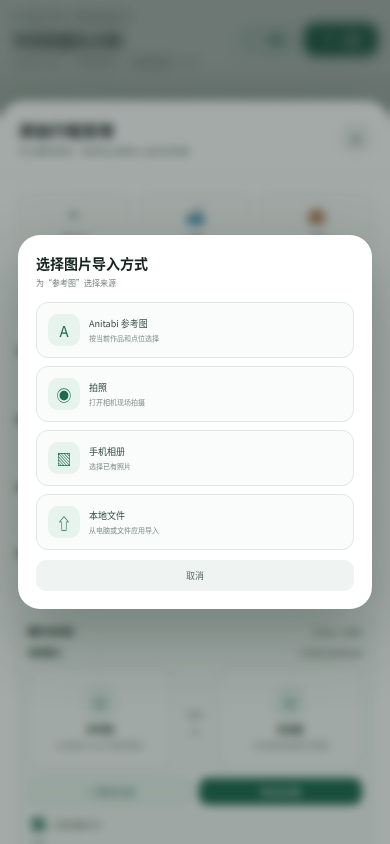
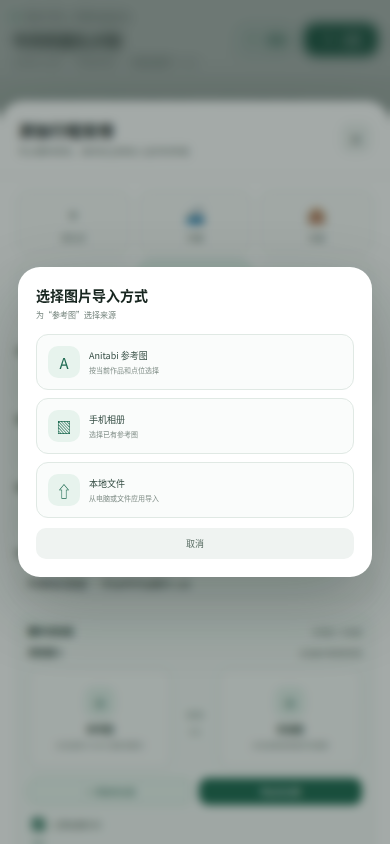
design: restrict photo sources by image role

diff --git a/design/enikki-ui.html b/design/enikki-ui.html
@@ -624,12 +624,7 @@ button,input{font:inherit}button{border:0;cursor:pointer}svg{display:block}
   <div class="photo-source-modal" role="dialog" aria-modal="true" onclick="event.stopPropagation()">
     <h3>选择图片导入方式</h3>
     <p id="photoSourceHint">为“参考图”选择来源</p>
-    <div class="photo-source-grid">
-      <button class="photo-source-choice" data-photo-source="anitabi"><i>A</i><span>Anitabi 参考图<small>按当前作品和点位选择</small></span></button>
-      <button class="photo-source-choice" data-photo-source="camera"><i>◉</i><span>拍照<small>打开相机现场拍摄</small></span></button>
-      <button class="photo-source-choice" data-photo-source="album"><i>▧</i><span>手机相册<small>选择已有照片</small></span></button>
-      <button class="photo-source-choice" data-photo-source="file"><i>⇧</i><span>本地文件<small>从电脑或文件应用导入</small></span></button>
-    </div>
+    <div class="photo-source-grid" id="photoSourceGrid"></div>
     <button class="photo-source-close" onclick="closePhotoSource()">取消</button>
   </div>
 </div>
@@ -742,17 +737,28 @@ document.getElementById('mobileSheetGrid').addEventListener('click', (event) => 
 });
 
 let photoTarget = null;
-const photoSourceLabels = {
-  anitabi: ['Anitabi 参考图', 'A'],
-  camera: ['现场拍照', '◉'],
-  album: ['手机相册', '▧'],
-  file: ['本地文件', '⇧']
+const photoSourceOptions = {
+  reference: [
+    { source: 'anitabi', label: 'Anitabi 参考图', note: '按当前作品和点位选择', icon: 'A' },
+    { source: 'album', label: '手机相册', note: '选择已有参考图', icon: '▧' },
+    { source: 'file', label: '本地文件', note: '从电脑或文件应用导入', icon: '⇧' }
+  ],
+  actual: [
+    { source: 'camera', label: '拍照', note: '打开相机现场拍摄', icon: '◉' },
+    { source: 'album', label: '手机相册', note: '选择已有实拍照片', icon: '▧' },
+    { source: 'file', label: '本地文件', note: '从电脑或文件应用导入', icon: '⇧' }
+  ]
 };
 
 function openPhotoSource(slot) {
   photoTarget = slot;
-  const side = slot.dataset.photoSide === 'actual' ? '实拍图' : '参考图';
-  document.getElementById('photoSourceHint').textContent = `为“${side}”选择来源`;
+  const side = slot.dataset.photoSide === 'actual' ? 'actual' : 'reference';
+  const sideLabel = side === 'actual' ? '实拍图' : '参考图';
+  document.getElementById('photoSourceHint').textContent = `为“${sideLabel}”选择来源`;
+  document.getElementById('photoSourceGrid').innerHTML = photoSourceOptions[side].map((item) => `
+    <button class="photo-source-choice" data-photo-source="${item.source}">
+      <i>${item.icon}</i><span>${item.label}<small>${item.note}</small></span>
+    </button>`).join('');
   document.getElementById('photoSourceBackdrop').classList.add('open');
 }
 
@@ -763,11 +769,12 @@ function closePhotoSource(event) {
 
 function choosePhotoSource(source) {
   if (!photoTarget) return;
-  const [label, icon] = photoSourceLabels[source] || photoSourceLabels.file;
-  const side = photoTarget.dataset.photoSide || 'reference';
+  const side = photoTarget.dataset.photoSide === 'actual' ? 'actual' : 'reference';
+  const option = photoSourceOptions[side].find((item) => item.source === source);
+  if (!option) return;
   photoTarget.classList.add('filled');
   if (side === 'actual') photoTarget.classList.add('actual');
-  photoTarget.innerHTML = `<span class="empty-photo-icon">${icon}</span><b>${side === 'actual' ? '实拍图' : '参考图'}</b><small>${label} · 点击可替换</small>`;
+  photoTarget.innerHTML = `<span class="empty-photo-icon">${option.icon}</span><b>${side === 'actual' ? '实拍图' : '参考图'}</b><small>${option.label} · 点击可替换</small>`;
   closePhotoSource();
 }
 
@@ -791,8 +798,9 @@ document.getElementById('photoGroups').addEventListener('click', (event) => {
   if (slot) openPhotoSource(slot);
 });
 
-document.querySelectorAll('[data-photo-source]').forEach((button) => {
-  button.addEventListener('click', () => choosePhotoSource(button.dataset.photoSource));
+document.getElementById('photoSourceGrid').addEventListener('click', (event) => {
+  const button = event.target.closest('[data-photo-source]');
+  if (button) choosePhotoSource(button.dataset.photoSource);
 });
 
 const planTypeDefaults = {
@@ -871,7 +879,8 @@ if (initialParams.get('editor') === 'add') {
 }
 if (initialParams.get('photoSource')) {
   setTimeout(() => {
-    const slot = document.querySelector('.photo-slot');
+    const actual = initialParams.get('photoSide') === 'actual';
+    const slot = document.querySelector(actual ? '.photo-slot.actual' : '.photo-slot.reference');
     if (slot) openPhotoSource(slot);
   }, 0);
 }

diff --git a/design/README.md b/design/README.md
@@ -36,22 +36,30 @@ enikki-ui.html?view=offline
 
 ![手机端总览添加安排](preview-mobile-plan-add.png)
 
-选择“拍照打卡”类型后，表单默认显示“参考图 + 实拍图”两个空图片框。点击
-任一框会弹出图片来源选择：
+选择“拍照打卡”类型后，表单默认显示“参考图 + 实拍图”两个空图片框。
+
+参考图支持：
 
 - Anitabi 参考图
-- 现场拍照
 - 手机相册
 - 本地文件
+
+![参考图来源选择](preview-photo-source.png)
+
+实拍图支持：
+
+- 拍照
+- 手机相册
+- 本地文件
+
+![实拍图来源选择](preview-photo-source-actual.png)
 
 选择后的图片会填入对应框，并支持继续添加新的“参考图 + 实拍图”对比组。
 填写后可使用叠影、上下、左右和原图模式，并保存对比图。
 
-![图片来源选择](preview-photo-source.png)
+手机端实拍图来源选择：
 
-手机端图片来源选择：
-
-![手机端图片来源选择](preview-mobile-photo-source.png)
+![手机端实拍图来源选择](preview-mobile-photo-source-actual.png)
 
 ### 交通规划
 

diff --git a/README.md b/README.md
@@ -109,8 +109,9 @@ ENikki 会覆盖交通和住宿的**规划环节**，但不直接承担交易环
 ### 6. 拍照打卡与现场记录
 
 - 拍照打卡是时间线中的安排类型，可通过右上角“添加”或已有事件的“编辑”进入。
-- 默认显示“参考图 + 实拍图”两个空图片框，点击后选择 Anitabi、拍照、
-  手机相册或本地文件。
+- 默认显示“参考图 + 实拍图”两个空图片框。
+- 参考图可以从 Anitabi、手机相册或本地文件导入。
+- 实拍图可以从拍照、手机相册或本地文件导入，不提供 Anitabi 来源。
 - 支持参考图叠影、上下对比、左右对比、原图/实景切换。
 - 支持继续添加多组对比图片。
 - 保存拍摄时间、可选位置、现场备注、参考图和实景照片。

diff --git a/docs/TRIP_PLANNING_ARCHITECTURE.md b/docs/TRIP_PLANNING_ARCHITECTURE.md
@@ -326,7 +326,8 @@ ExportTrip
 - 在任意事件之间插入新的 `PlanItem`；
 - 编辑开始时间、结束时间、标题、地点、片区、提醒和备注；
 - 添加巡礼点、交通、住宿、用餐、拍照打卡、休息和普通备注；
-- 拍照打卡类型默认提供两个空图片框，点击后选择 Anitabi、拍照、相册或文件；
+- 拍照打卡类型默认提供两个空图片框；参考图可选择 Anitabi、相册或文件，
+  实拍图可选择拍照、相册或文件；
 - 每组保存参考图、实拍图和对比模式，并允许继续添加多个对比组；
 - 输入 CNY 与 JPY，或输入原币种后自动换算；
 - 拖动调整顺序，锁定固定预约和交通；
